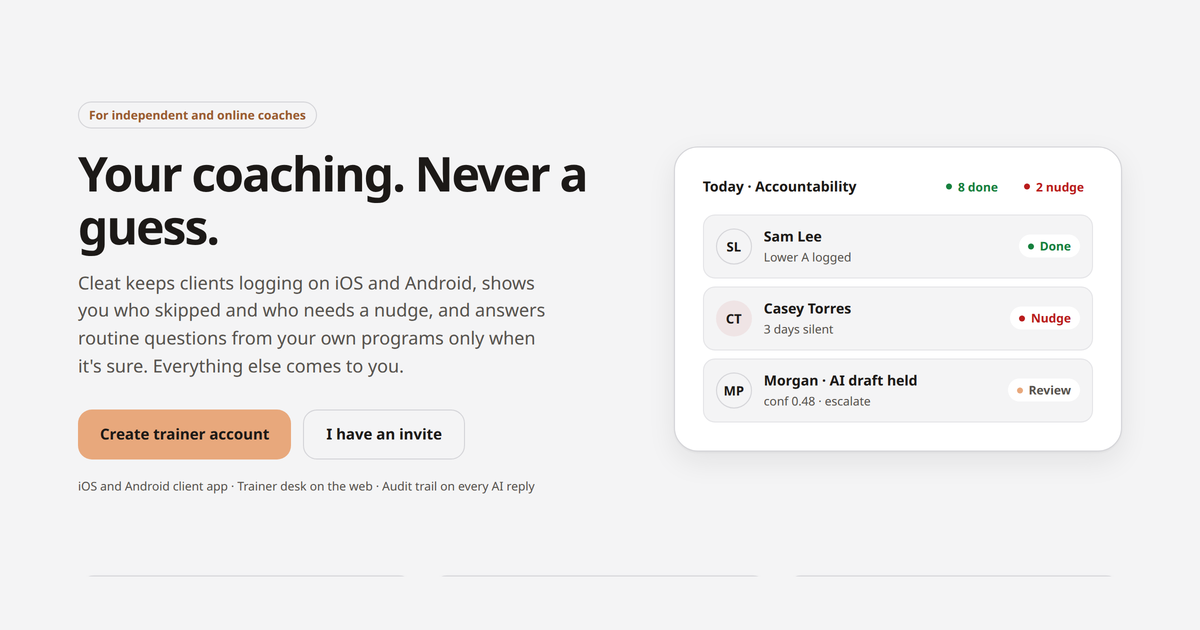
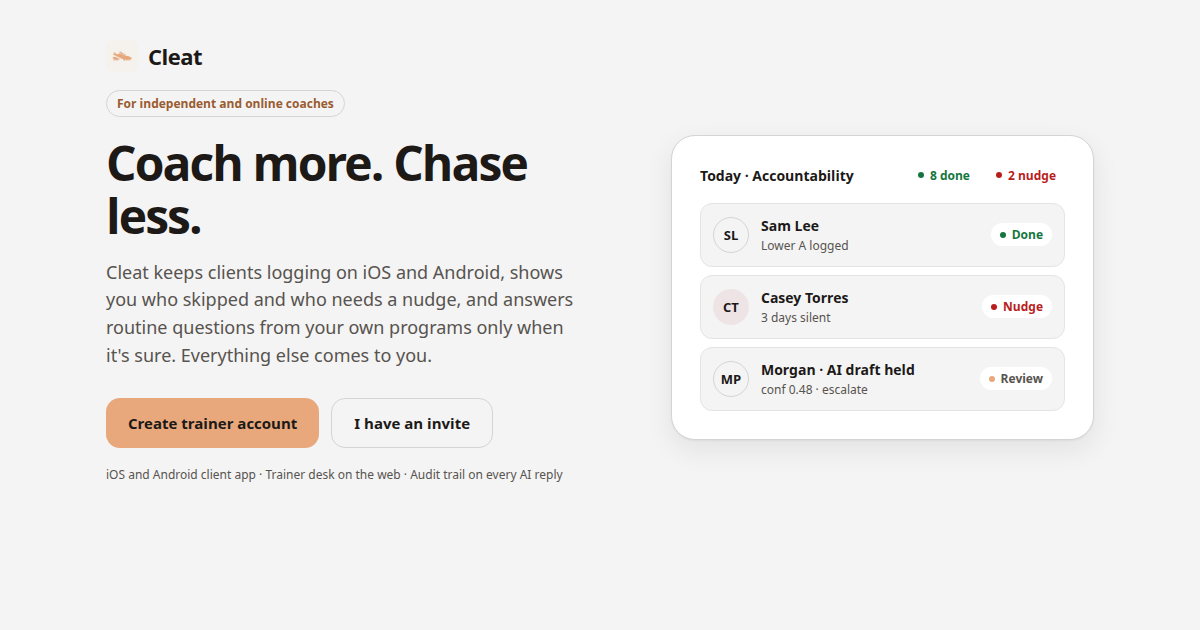
Update the marketing tagline to Coach more. Chase less. (#44)
* Update the marketing tagline to Coach more. Chase less.

The hero, document title, and social titles share that line. The Open Graph image matches the new hero. The hero subline stays, because it still describes the demo.

* Break the hero headline on narrow screens.

Below 768px the two sentences stack. The H1 text content stays "Coach more. Chase less."

* Deepen the dark theme to logo charcoal.

The dark page and phone stage 2 are #1C1917. The dark sidebar is #171412. Cards, text, apricot, and the light theme stay.

* Use the straight apricot cleat on the website.

Header, footer, desk, auth, favicon, and the Open Graph image use the straight mark. Tiles follow the theme. Store icons stay tilted because the phone splash and in-app header still show that mark.

* Restore the warm mist dark page behind the logo tile.

The dark page and phone stage 2 return to #262423 and the sidebar to #211F1E. Cards stay #312E2C. The #1C1917 logo tile stays so it reads apart from the page.

---------

diff --git a/apps/web/components/marketing/landing.tsx b/apps/web/components/marketing/landing.tsx
@@ -1,10 +1,15 @@
 import { ThemeCycle } from "../../app/theme";
+import { CleatMark } from "../cleat-mark";
 
-export const MARKETING_TITLE = "Cleat · Your coaching. Never a guess.";
+export const MARKETING_TITLE = "Cleat · Coach more. Chase less.";
 
 export const MARKETING_PILL = "For independent and online coaches";
 
-export const MARKETING_H1 = "Your coaching. Never a guess.";
+export const MARKETING_H1 = "Coach more. Chase less.";
+
+const heroBreak = MARKETING_H1.indexOf(". ");
+const HERO_LEAD = MARKETING_H1.slice(0, heroBreak + 1);
+const HERO_REST = MARKETING_H1.slice(heroBreak + 2);
 
 export const MARKETING_SUBLINE =
   "Cleat keeps clients logging on iOS and Android, shows you who skipped and who needs a nudge, and answers routine questions from your own programs only when it's sure. Everything else comes to you.";
@@ -41,12 +46,6 @@ export function clientInviteHref(): string {
   return `${configured || "http://localhost:8081"}/invite`;
 }
 
-function Mark({ size }: { size: number }) {
-  return (
-    <img src="/cleat-mark-charcoal.png" alt="Cleat mark" width={size} height={size} />
-  );
-}
-
 function Status({ tone, children }: { tone: "done" | "nudge" | "ai"; children: string }) {
   return <span className={`mkt-status mkt-${tone}`}>{children}</span>;
 }
@@ -56,7 +55,7 @@ export function Landing() {
     <div className="mkt">
       <header className="mkt-nav">
         <a className="mkt-lockup" href="/">
-          <Mark size={32} />
+          <CleatMark size={32} alt="Cleat mark" />
           <span>Cleat</span>
         </a>
         <nav className="mkt-links" aria-label="Primary">
@@ -72,7 +71,9 @@ export function Landing() {
         <section className="mkt-hero">
           <div>
             <p className="mkt-pill">{MARKETING_PILL}</p>
-            <h1>{MARKETING_H1}</h1>
+            <h1>
+              <span className="mkt-h1-line">{HERO_LEAD}</span> <span className="mkt-h1-line">{HERO_REST}</span>
+            </h1>
             <p className="mkt-lede">{MARKETING_SUBLINE}</p>
             <div className="mkt-cta">
               <a className="btn btn-primary btn-lg" href={TRAINER_SIGNUP_HREF}>
@@ -139,7 +140,7 @@ export function Landing() {
       </main>
       <footer className="mkt-footer">
         <div className="mkt-footer-mark">
-          <Mark size={28} />
+          <CleatMark size={28} alt="Cleat mark" />
           <span>Cleat</span>
         </div>
         <div className="mkt-footer-links">

diff --git a/apps/web/components/marketing/landing.test.tsx b/apps/web/components/marketing/landing.test.tsx
@@ -12,6 +12,7 @@ import {
   MARKETING_PROOF,
   MARKETING_SECTIONS,
   MARKETING_SUBLINE,
+  MARKETING_TITLE,
   clientInviteHref,
 } from "./landing";
 
@@ -33,6 +34,20 @@ function innerTexts(html: string, tag: string): string[] {
   return [...html.matchAll(re)].map((match) => decode(match[1] ?? ""));
 }
 
+/** Tag-stripped element text with the original spaces kept, like textContent. */
+function textContent(html: string, tag: string): string {
+  const re = new RegExp(`<${tag}\\b[^>]*>([\\s\\S]*?)</${tag}>`, "i");
+  const inner = re.exec(html)?.[1] ?? "";
+  return inner
+    .replace(/<[^>]+>/g, "")
+    .replace(/&nbsp;/g, " ")
+    .replace(/&amp;/g, "&")
+    .replace(/&quot;/g, '"')
+    .replace(/&#39;|&apos;|&#x27;/g, "'")
+    .replace(/&#(\d+);/g, (_, code: string) => String.fromCharCode(Number(code)))
+    .replace(/&#x([0-9a-f]+);/gi, (_, code: string) => String.fromCharCode(parseInt(code, 16)));
+}
+
 function renderedText(html: string): string {
   const named = [...html.matchAll(/\b(?:alt|aria-label)="([^"]*)"/g)].map((match) => match[1] ?? "");
   return `${decode(html)} ${named.join(" ")}`.trim();
@@ -41,8 +56,16 @@ function renderedText(html: string): string {
 const html = renderToStaticMarkup(createElement(ThemeProvider, null, createElement(Landing)));
 
 test("hero and section copy match the locked strings", () => {
-  assert.deepEqual(innerTexts(html, "h1"), [MARKETING_H1]);
-  assert.equal(innerTexts(html, "h1")[0], "Your coaching. Never a guess.");
+  assert.equal(textContent(html, "h1"), MARKETING_H1);
+  assert.equal(textContent(html, "h1"), "Coach more. Chase less.");
+  assert.equal(html.includes("/cleat-avatar-dark.png"), true);
+  assert.equal(html.includes("/cleat-avatar-light.png"), true);
+  assert.equal(html.includes("/cleat-mark-charcoal.png"), false);
+  assert.deepEqual(
+    [...html.matchAll(/<span class="mkt-h1-line">([^<]*)<\/span>/g)].map((match) => match[1]),
+    ["Coach more.", "Chase less."],
+  );
+  assert.equal(MARKETING_TITLE, "Cleat · Coach more. Chase less.");
 
   const paragraphs = innerTexts(html, "p");
   assert.equal(paragraphs[0], MARKETING_PILL);

diff --git a/apps/web/app/globals.css b/apps/web/app/globals.css
@@ -66,11 +66,9 @@ p {
   margin-bottom: 24px;
 }
 
-.lockup img {
+.lockup .cleat-mark {
   width: 32px;
   height: 32px;
-  border-radius: 8px;
-  display: block;
 }
 
 .lockup span {
@@ -249,11 +247,9 @@ p {
   box-shadow: inset 0 0 0 1px var(--border);
 }
 
-.brand-mark img {
-  width: 100%;
-  height: 100%;
-  object-fit: cover;
-  display: block;
+.brand-mark .cleat-mark {
+  width: 28px;
+  height: 28px;
 }
 
 .nav {
@@ -1087,11 +1083,9 @@ a.article-row.active {
   flex-shrink: 0;
 }
 
-.mkt-lockup img {
+.mkt-lockup .cleat-mark {
   width: 32px;
   height: 32px;
-  border-radius: 8px;
-  display: block;
 }
 
 .mkt-lockup span {
@@ -1343,11 +1337,54 @@ a.article-row.active {
   letter-spacing: -0.03em;
 }
 
-.mkt-footer-mark img {
+.mkt-footer-mark .cleat-mark {
   width: 28px;
   height: 28px;
+}
+
+.cleat-mark {
+  position: relative;
+  display: inline-block;
+  flex-shrink: 0;
+  line-height: 0;
+}
+
+.cleat-mark img {
+  width: 100%;
+  height: 100%;
   border-radius: 8px;
+  display: none;
+  object-fit: cover;
+}
+
+.cleat-mark .cleat-mark-dark {
   display: block;
+}
+
+@media (prefers-color-scheme: light) {
+  :root:not([data-theme]) .cleat-mark .cleat-mark-dark {
+    display: none;
+  }
+
+  :root:not([data-theme]) .cleat-mark .cleat-mark-light {
+    display: block;
+  }
+}
+
+:root[data-theme="light"] .cleat-mark .cleat-mark-dark {
+  display: none;
+}
+
+:root[data-theme="light"] .cleat-mark .cleat-mark-light {
+  display: block;
+}
+
+:root[data-theme="dark"] .cleat-mark .cleat-mark-dark {
+  display: block;
+}
+
+:root[data-theme="dark"] .cleat-mark .cleat-mark-light {
+  display: none;
 }
 
 .mkt-footer-links {
@@ -1408,6 +1445,10 @@ a.article-row.active {
 
   .mkt-lede {
     max-width: none;
+  }
+
+  .mkt-hero h1 .mkt-h1-line {
+    display: block;
   }
 }
 

diff --git a/packages/theme/src/tokens.test.ts b/packages/theme/src/tokens.test.ts
@@ -22,6 +22,19 @@ test("onAccent is charcoal on both themes", () => {
   assert.equal(light.onAccent, "#1C1917");
 });
 
+test("dark page is warm mist and the logo charcoal is not the page", () => {
+  assert.equal(dark.page, "#262423");
+  assert.equal(dark.phoneStage2, "#262423");
+  assert.equal(dark.sidebar, "#211F1E");
+  assert.equal(dark.card, "#312E2C");
+  assert.notEqual(dark.page, "#1C1917");
+  assert.ok(luminance(dark.sidebar) < luminance(dark.page));
+  assert.equal(light.page, "#F4F4F5");
+  assert.equal(light.sidebar, "#FAFAFA");
+  assert.equal(dark.accent, "#E8A87C");
+  assert.equal(dark.text, "#F3F0EC");
+});
+
 test("light accentText is the darker apricot", () => {
   assert.equal(light.accentText, "#9A5B2F");
   assert.equal(light.accent, "#E8A87C");

diff --git a/apps/web/app/(desk)/nav.tsx b/apps/web/app/(desk)/nav.tsx
@@ -4,6 +4,7 @@ import { screenCopy, type Membership } from "@cleat/domain";
 import Link from "next/link";
 import { usePathname, useRouter } from "next/navigation";
 import { useState, type MouseEvent, type ReactNode } from "react";
+import { CleatMark } from "../../components/cleat-mark";
 import { useOnline } from "../online";
 import { OfflineBanner, ScreenState } from "../screen-state";
 import { useSession } from "../session";
@@ -74,7 +75,7 @@ export function DeskShell({
       <aside className="sidebar">
         <Link className="brand" href="/accountability">
           <span className="brand-mark">
-            <img src="/cleat-mark-charcoal.png" alt="" />
+            <CleatMark size={28} />
           </span>
           Cleat
         </Link>

diff --git a/apps/web/components/cleat-mark.tsx b/apps/web/components/cleat-mark.tsx
@@ -1,0 +1,18 @@
+/**
+ * Straight apricot cleat in a square tile.
+ * Dark theme uses the charcoal tile. Light theme uses the cream tile.
+ * Which one shows follows the same data-theme rules as the palette.
+ */
+export function CleatMark({ size, alt = "" }: { size: number; alt?: string }) {
+  return (
+    <span
+      className="cleat-mark"
+      style={{ width: size, height: size }}
+      role={alt ? "img" : undefined}
+      aria-label={alt || undefined}
+    >
+      <img className="cleat-mark-dark" src="/cleat-avatar-dark.png" alt="" width={size} height={size} />
+      <img className="cleat-mark-light" src="/cleat-avatar-light.png" alt="" width={size} height={size} />
+    </span>
+  );
+}

diff --git a/apps/web/app/ui.tsx b/apps/web/app/ui.tsx
@@ -2,12 +2,13 @@
 
 import { APP_NAME, copy, userFacingError } from "@cleat/domain";
 import type { InputHTMLAttributes, ReactNode } from "react";
+import { CleatMark } from "../components/cleat-mark";
 import { ThemeCycle } from "./theme";
 
 export function BrandLockup() {
   return (
     <div className="lockup">
-      <img src="/cleat-mark-charcoal.png" alt="" width={32} height={32} />
+      <CleatMark size={32} />
       <span>{APP_NAME}</span>
     </div>
   );

diff --git a/apps/web/app/layout.tsx b/apps/web/app/layout.tsx
@@ -13,6 +13,12 @@ export const metadata: Metadata = {
     template: `%s · ${APP_NAME}`,
   },
   description: "Cleat trainer desk.",
+  icons: {
+    icon: [
+      { url: "/cleat-avatar-light.png", media: "(prefers-color-scheme: light)", type: "image/png" },
+      { url: "/cleat-avatar-dark.png", media: "(prefers-color-scheme: dark)", type: "image/png" },
+    ],
+  },
 };
 
 export default function RootLayout({ children }: { children: ReactNode }) {

diff --git a/packages/theme/src/tokens.ts b/packages/theme/src/tokens.ts
@@ -80,7 +80,7 @@ export type ThemeTokens = {
   fontMono: string;
 };
 
-/** Dark theme. Warm mist. */
+/** Dark theme. Warm mist. The logo tile stays #1C1917 so it reads apart from the page. */
 export const dark = {
   colorScheme: "dark",
   sidebar: "#211F1E",

diff --git a/docs/design/Cleat-Design-Decisions.md b/docs/design/Cleat-Design-Decisions.md
@@ -14,8 +14,8 @@
 
 ## 3. Logo
 
-- Mark: **segmented apricot cleat**, angled, peeking in from the **top-right corner** of the tile.
-- **Primary icon: the charcoal-background version** (`app-icon-charcoal-angled.jpg`; UI crop `assets/cleat-mark-charcoal.png`). It's used in the sidebar, auth, landing and index.
+- Mark: **segmented apricot cleat**, straight. A tile uses the dark avatar on `#1C1917` in the dark theme and the light avatar on `#F5F2EE` in the light theme. The dark page is `#262423`, so the logo tile reads apart from the page.
+- The tilted corner peek stays on the iOS and Android store icons. The phone splash and the in-app header still show that tilted mark, so those store icons are unchanged.
 - Website lockup = cleat mark + **"Cleat"** wordmark.
 - The cream/peach tile icon is retired from the UI.
 
@@ -28,7 +28,7 @@
 | Token | Hex | Use |
 |---|---|---|
 | Sidebar | `#211F1E` | Nav column, code blocks |
-| Page | `#262423` | App background |
+| Page | `#262423` | App background and phone stage 2 |
 | Card | `#312E2C` | Surfaces |
 | Raised | `#3C3936` | Hover, active row, inputs-on-card, avatars |
 | Border | `rgba(255,255,255,0.08)` | Hairlines (6% soft, 14% strong) |
@@ -80,7 +80,7 @@
 6. **Elevation by lightness:** sidebar < page < card < raised, roughly 4 to 5 OKLCH lightness points per step. Shadows are minimal in dark mode.
 7. **Avatars** are neutral. Only urgent/needs-nudge avatars take the error tint.
 8. **Stats** use neutral numbers with a status dot in the label, not big colored numerals.
-9. **Copy rules:** No dash punctuation in product copy (no em dash, en dash, or spaced hyphen used as punctuation). Hyphenated words like check-in or sign-up are fine. Locked marketing copy: hero "Your coaching. Never a guess."; hero subline "Cleat keeps clients logging on iOS and Android, shows you who skipped and who needs a nudge, and answers routine questions from your own programs only when it's sure. Everything else comes to you."; AI section "It answers when it's sure. You answer the rest."; accountability section "Every rep logged. Every skip seen."
+9. **Copy rules:** No dash punctuation in product copy (no em dash, en dash, or spaced hyphen used as punctuation). Hyphenated words like check-in or sign-up are fine. Locked marketing copy: hero "Coach more. Chase less."; hero subline "Cleat keeps clients logging on iOS and Android, shows you who skipped and who needs a nudge, and answers routine questions from your own programs only when it's sure. Everything else comes to you."; AI section "It answers when it's sure. You answer the rest."; accountability section "Every rep logged. Every skip seen."
 
 ## 7. Theme behavior
 
@@ -101,8 +101,11 @@
 | Oct 7 | Compare: **3 darks** (Graphite, Slate dusk, Warm mist) + **2 lights** (Grey, Paper) on the trainer inbox, with hierarchy fixes. |
 | Oct 7 | **Locked: Dark = Warm mist, Light = Grey + white cards; charcoal-background logo is primary.** Rolled across all wireframes. |
 | Oct 7 | **Copy rule:** no dash punctuation in product text. Marketing tagline TBD / placeholder. |
-| Oct 7 | **Tagline locked:** hero "Your coaching. Never a guess."; AI section "It answers when it's sure. You answer the rest."; accountability "Every rep logged. Every skip seen." |
+| Oct 7 | **Tagline locked:** AI section "It answers when it's sure. You answer the rest."; accountability "Every rep logged. Every skip seen." |
 | Oct 9 | Speedy approved AA contrast nudges: dark error `#EE9088` → `#F1948A`; light success `#15803D` → `#15763D`; light warn and skip `#9E6007` → `#995707`. Apricot and charcoal stay locked. |
+| Nov 17 | Hero tagline updated to "Coach more. Chase less." |
+| Nov 17 | Dark page is `#262423`, sidebar `#211F1E`, phone stage 2 `#262423`, cards `#312E2C`. The `#1C1917` logo tile stays distinct from the page. |
+| Nov 17 | Website mark is the straight apricot cleat. Tiles follow the theme. Store icons stay tilted because the phone splash and in-app header still use that mark. |
 
 ## 9. Screen inventory (23)
 
